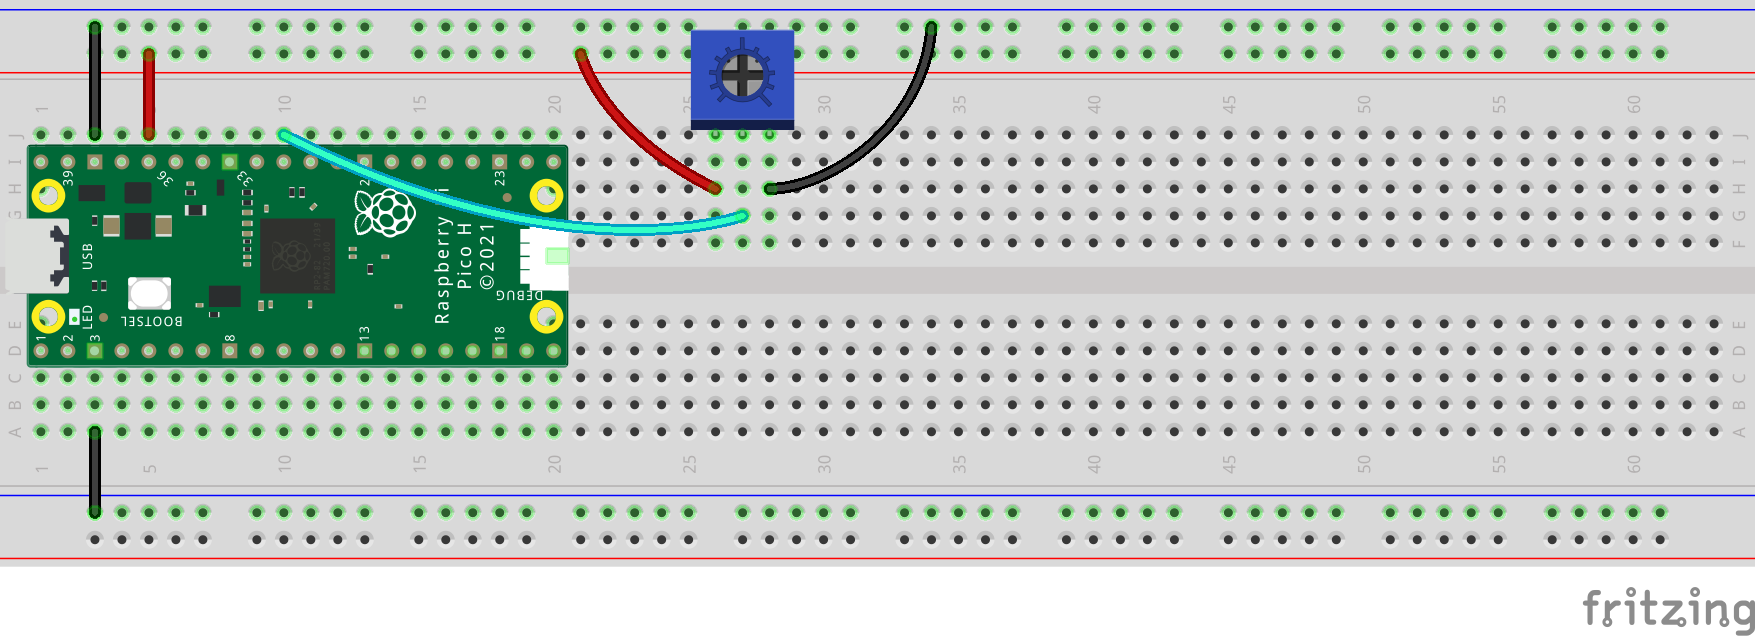
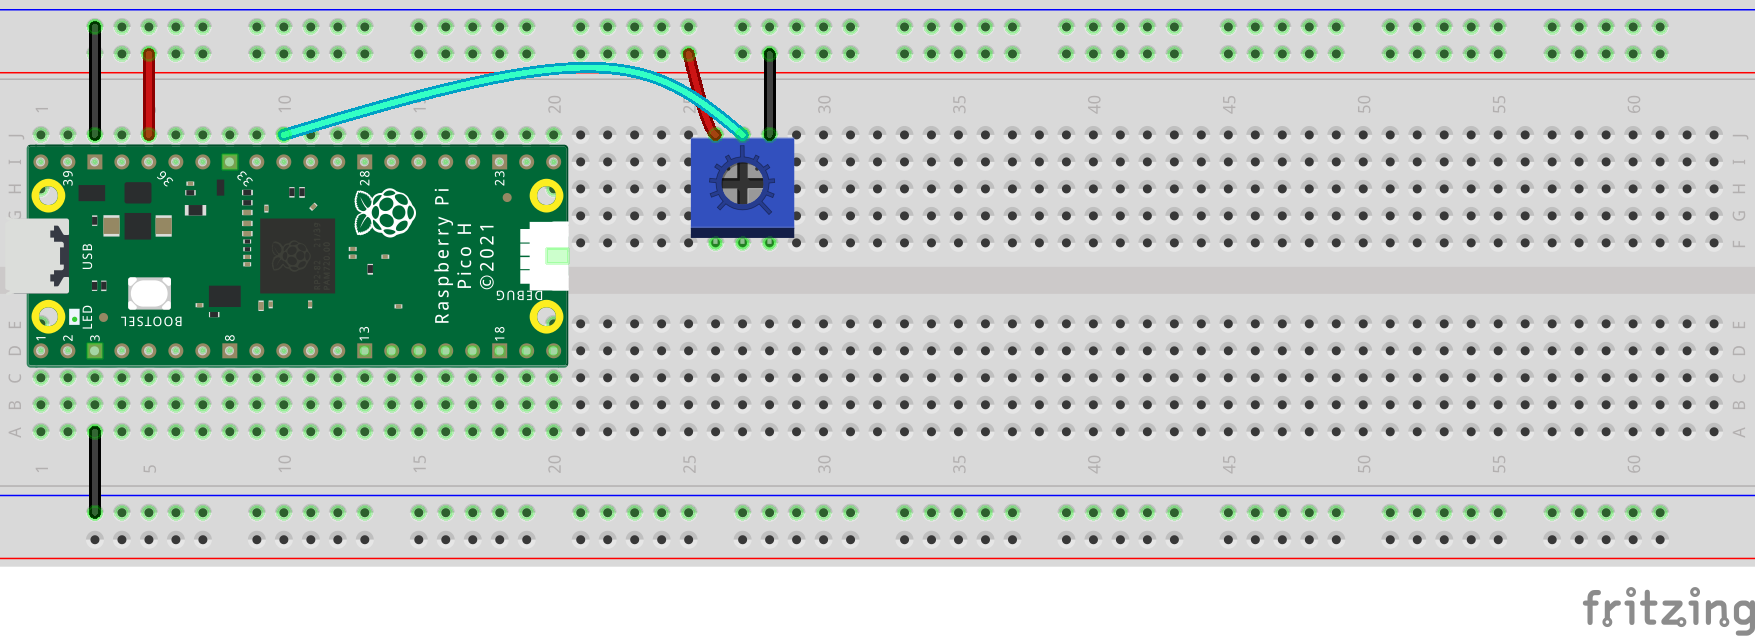
added rain sensor

Changed region(s): [[0.1538, 0.0299, 0.4923, 0.3884], [0.4923, 0.1195, 0.5231, 0.239], [0.5231, 0.0299, 0.5538, 0.1195]]

diff --git a/en/step_12.md b/en/step_12.md
@@ -5,7 +5,7 @@ A potentiometer is a resistor that allows you to change the value of the resista
 Turning the dial on the top of the potentiometer will change the resistance of the potentiometer, which can then be read by the Raspberry Pi Pico.
 
 ![a side by side photograph of a small potentiometer, showing the three pins and the arrow on the dial](images/potentiometer.jpg)
-![a side by side photograph of a large 10K potentiometer, showing the three pins and label](images/big_pot.jpg)
+![a side by side photograph of a large 10K potentiometer, showing the three pins and label](images/big_pot.png)
 
 A potentiometer has three pins. The outer pins are normally connected to a 3V3 pin and a GND pin. The middle pin is connected to a GPIO pin capable of reading an analogue signal:
 
@@ -118,3 +118,15 @@ for note in liten_mus:
 --- /code ---
 
 --- /collapse ---
+
+There are also other components whose resistance varies in response to light. These are called Light Dependent Resistors (LDRs). As light shines on their surface,  the resistance drops so in combination with a standard 10KΩ resistor, we can use an LDR as a light sensor.
+
+![An LDR wired to analogue pin 0 on a Raspberry Pico using a breadboard](images/pico_ldr_bb.png)
+
+You can reuse the same code as you used with the pot to see how the values printed change as you cover and uncover the LDR. 
+
+A type of variable resistor can also be used to measure moisture. These typically come with their own control board (which includes a pot for adjusting the sensitivity) that has both a digital and analogue output. The analogue output acts like the light sensor and indicates how wet the surface of the detector board has become. The digital output acts like a switch - when the detector board has become wet enough that the trigger threshold (set by the pot) is exceeded, it will go "High".  You can use both outputs  with a Raspberry Pi Pico to build a simple rain alarm. 
+
+![A moisture detector wired to analogue pin 0 and digital pin 22 on a Raspberry Pico using a breadboard](images/pico_rain_bb.png)
+
+Combine the code for a pot (or LDR) and a button/switch to creation a detector. You could also add a buzzer or LED to provide an audible or visible alert so that you know it's time to bring the washing in!
